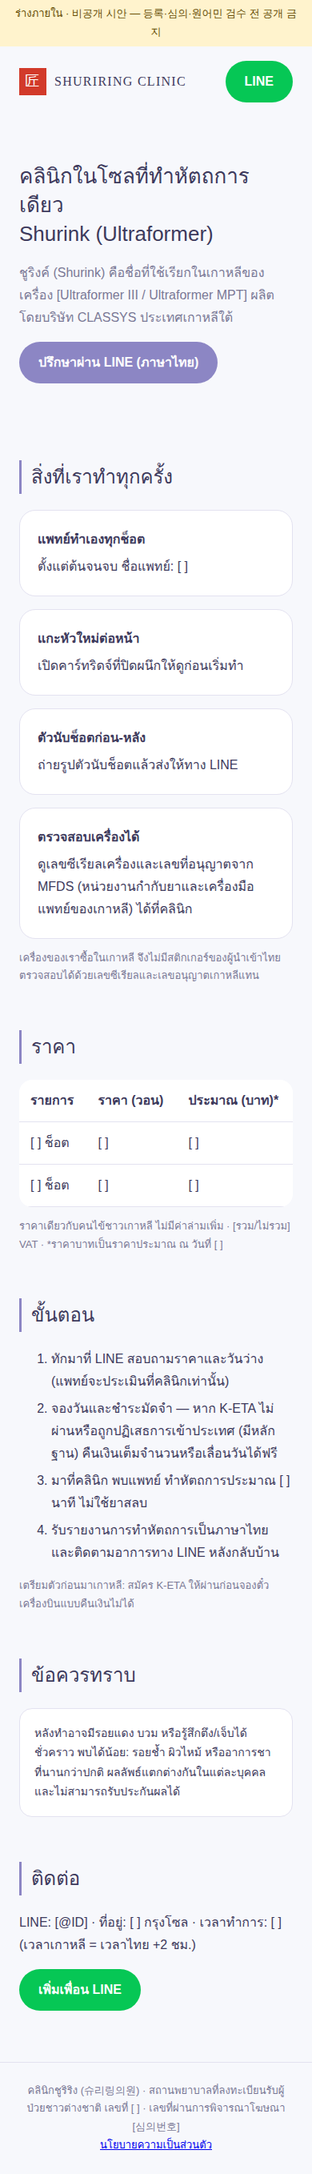
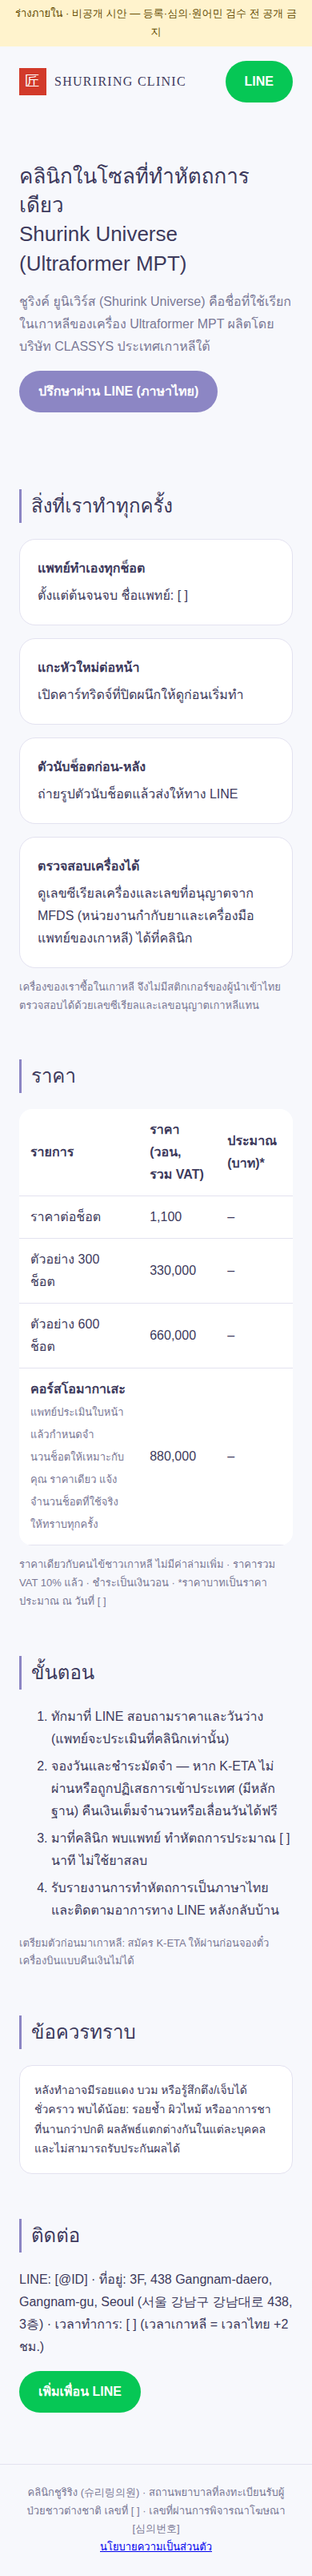
Fill action package with clinic details: Shurink Universe, GP, Gangnam, pricing
Claude-Session: https://claude.ai/code/session_01TBw4pbreaLteZs8koLRPUa

diff --git a/action/site-th/index.html b/action/site-th/index.html
@@ -45,9 +45,9 @@
 
 <main>
   <div class="hero">
-    <h1>คลินิกในโซลที่ทำหัตถการเดียว<br>Shurink (Ultraformer)</h1>
-    <!-- 슈링크 구형이면 Ultraformer III, 유니버스면 Ultraformer MPT로 확정 후 교체 -->
-    <p>ชูริงค์ (Shurink) คือชื่อที่ใช้เรียกในเกาหลีของเครื่อง [Ultraformer III / Ultraformer MPT] ผลิตโดยบริษัท CLASSYS ประเทศเกาหลีใต้</p>
+    <h1>คลินิกในโซลที่ทำหัตถการเดียว<br>Shurink Universe (Ultraformer MPT)</h1>
+    <!-- 기기: 슈링크 유니버스 = Ultraformer MPT. 동일성은 클래시스 서면 회신 후 최종 확정 -->
+    <p>ชูริงค์ ยูนิเวิร์ส (Shurink Universe) คือชื่อที่ใช้เรียกในเกาหลีของเครื่อง Ultraformer MPT ผลิตโดยบริษัท CLASSYS ประเทศเกาหลีใต้</p>
     <a class="btn" href="#contact">ปรึกษาผ่าน LINE (ภาษาไทย)</a>
   </div>
 
@@ -64,12 +64,15 @@
 
   <section>
     <h2>ราคา</h2>
-    <table>
-      <tr><th>รายการ</th><th>ราคา (วอน)</th><th>ประมาณ (บาท)*</th></tr>
-      <tr><td>[ ] ช็อต</td><td>[ ]</td><td>[ ]</td></tr>
-      <tr><td>[ ] ช็อต</td><td>[ ]</td><td>[ ]</td></tr>
+    <!-- 환율: data-rate(1바트=몇 원)와 data-date만 바꾸면 바트 칸 자동 계산. 한국은행 ECOS 기준으로 갱신 -->
+    <table id="price" data-rate="0" data-date="[ ]">
+      <tr><th>รายการ</th><th>ราคา (วอน, รวม VAT)</th><th>ประมาณ (บาท)*</th></tr>
+      <tr><td>ราคาต่อช็อต</td><td data-krw="1100">1,100</td><td class="thb">–</td></tr>
+      <tr><td>ตัวอย่าง 300 ช็อต</td><td data-krw="330000">330,000</td><td class="thb">–</td></tr>
+      <tr><td>ตัวอย่าง 600 ช็อต</td><td data-krw="660000">660,000</td><td class="thb">–</td></tr>
+      <tr><td><b>คอร์สโอมากาเสะ</b><br><span class="note">แพทย์ประเมินใบหน้าแล้วกำหนดจำนวนช็อตให้เหมาะกับคุณ ราคาเดียว แจ้งจำนวนช็อตที่ใช้จริงให้ทราบทุกครั้ง</span></td><td data-krw="880000">880,000</td><td class="thb">–</td></tr>
     </table>
-    <p class="note">ราคาเดียวกับคนไข้ชาวเกาหลี ไม่มีค่าล่ามเพิ่ม · [รวม/ไม่รวม] VAT · *ราคาบาทเป็นราคาประมาณ ณ วันที่ [ ]</p>
+    <p class="note">ราคาเดียวกับคนไข้ชาวเกาหลี ไม่มีค่าล่ามเพิ่ม · ราคารวม VAT 10% แล้ว · ชำระเป็นเงินวอน · *ราคาบาทเป็นราคาประมาณ ณ วันที่ <span id="rate-date"></span></p>
   </section>
 
   <section>
@@ -90,7 +93,7 @@
 
   <section id="contact">
     <h2>ติดต่อ</h2>
-    <p>LINE: [@ID] · ที่อยู่: [ ] กรุงโซล · เวลาทำการ: [ ] (เวลาเกาหลี = เวลาไทย +2 ชม.)</p>
+    <p>LINE: [@ID] · ที่อยู่: 3F, 438 Gangnam-daero, Gangnam-gu, Seoul (서울 강남구 강남대로 438, 3층) · เวลาทำการ: [ ] (เวลาเกาหลี = เวลาไทย +2 ชม.)</p>
     <a class="btn line" href="#">เพิ่มเพื่อน LINE</a>
   </section>
 </main>
@@ -99,5 +102,10 @@
   คลินิกชูริริง (슈리링의원) · สถานพยาบาลที่ลงทะเบียนรับผู้ป่วยชาวต่างชาติ เลขที่ [ ] · เลขที่ผ่านการพิจารณาโฆษณา [심의번호]<br>
   <a href="#">นโยบายความเป็นส่วนตัว</a>
 </footer>
+<script>
+  var t=document.getElementById('price'),r=+t.dataset.rate;
+  document.getElementById('rate-date').textContent=t.dataset.date;
+  if(r>0)t.querySelectorAll('tr').forEach(function(tr){var k=tr.querySelector('[data-krw]');if(k)tr.querySelector('.thb').textContent='≈ '+(Math.round(k.dataset.krw/r/10)*10).toLocaleString();});
+</script>
 </body>
 </html>

diff --git a/action/05-가격-포지셔닝-메모.md b/action/05-가격-포지셔닝-메모.md
@@ -1,0 +1,34 @@
+# 05. 가격·포지셔닝 메모 (슈링크 유니버스 · 일반의 · 강남대로 438)
+
+## 1. 태국 가격과 비교 (부가세 포함, 바트 환산은 41.5~47원/바트 범위 — ECOS로 확정 필요)
+
+| 구분 | 슈리링의원 (VAT 포함) | 바트 환산 | 태국 현지 (클리닉 홍보가, 리서치 [중간]) |
+|---|---|---|---|
+| 100샷 | 110,000원 | 약 2,340~2,650 | Ultraformer MPT 100샷 약 5,000바트 |
+| 300샷 | 330,000원 | 약 7,000~7,950 | (III 기준 약 8,000바트) |
+| 600샷 | 660,000원 | 약 14,000~15,900 | III 600샷 16,500~19,800바트 |
+| 오마카세 코스 | 880,000원 | 약 18,700~21,200 | MPT 얼굴+목 약 20,000~30,000바트 |
+
+→ **같은 MPT 기준으로 한국이 저렴하거나 비슷**합니다. 다만 광고에서 "태국보다 싸다"는 비교는 금지 — 가격표만 투명하게 보여 주면 태국인이 직접 계산합니다.
+
+## 2. '무제한 샷'은 태국 광고에 그대로 쓰지 마세요
+
+- 리서치 결과, 태국에서 **'무제한·초저가'는 가품·리필 카트리지 신호**로 읽힙니다. 증명 키트로 쌓을 신뢰와 정면으로 충돌합니다.
+- '무제한'이라는 표현 자체가 한국 의료광고 심의에서 과장·유인으로 문제될 수 있습니다 → **심의위원회 확인 필요**. 태국 금지 판촉어(ลด แลก แจก แถม 계열)와도 가깝습니다.
+- **추천 프레이밍: "슈링크 오마카세" = 의사가 얼굴을 보고 샷 수를 정하는 코스.** 방콕에서 '오마카세(โอมากาเสะ)'는 익숙한 말이고, '장인이 알아서 최적으로'라는 원툴 장인 콘셉트와 딱 맞습니다.
+  - 태국어: คอร์สโอมากาเสะ — แพทย์ประเมินใบหน้าแล้วกำหนดจำนวนช็อตให้เหมาะกับคุณ ราคาเดียว แจ้งจำนวนช็อตที่ใช้จริงให้ทราบทุกครั้ง
+  - (의사가 얼굴을 보고 샷 수를 정하는 코스, 한 가격, 실제 사용 샷 수를 매번 알려 드림)
+  - **실사용 샷 수를 카운터 사진으로 반드시 전달** → '무제한'의 불안을 '투명함'으로 바꿉니다.
+- 운영 전 클래시스에 1회 권장 최대 샷 수를 확인하세요(`03` 메일 6번 추가). 안전 상한을 내부 기준으로 정해 두는 게 좋습니다.
+
+## 3. 일반의라서 조심할 표현
+
+- 쓰면 안 됨: 피부과, 피부과 전문의, dermatologist, specialist, แพทย์ผิวหนัง, แพทย์เฉพาะทาง, ผู้เชี่ยวชาญ
+- 써도 되는 사실: "의사(แพทย์)", 의사 이름, 누적 시술 건수(증빙 가능할 때), "슈링크 유니버스 한 가지만 시술"
+
+## 4. 강남구 소재라서 쓸 수 있는 것
+
+- **강남구 의료관광 활성화 조례**(2025.9.26): 해외 홍보·마케팅 경비 지원, 협력기관 공모(지정 3년)
+- **강남메디컬투어센터**(압구정로 161): 등록 후 협력기관 신청·팸투어 문의
+- 2026-07-01 특구 외국어 광고 특례는 강남이 해당 특구가 아니므로 **계획에서 제외**
+- 도로명주소상 자치구가 강남구인지 한 번만 확인하세요(강남대로는 서초구와 경계).

diff --git a/action/01-등록신청-준비.md b/action/01-등록신청-준비.md
@@ -6,10 +6,9 @@
 
 ## A. 체크리스트
 
-- [ ] 기기 명판 사진(모델명·시리얼) 확보 → 슈링크(구형)인지 유니버스인지 확정
-- [ ] 원장 면허 구분 확인: 전문의 / 일반의
-  - 전문의(예: 피부과) → 해당 진료과목으로 신청
-  - 일반의 → `02-국민신문고-질의서.md` 1번 질의 회신 후 과목 결정 (**'피부과'로 적으면 요건 미충족**)
+- [x] 기기: **슈링크 유니버스** (해외명 Ultraformer MPT) — 명판 사진(모델명·시리얼)과 식약처 허가번호는 따로 확보
+- [x] 원장: **일반의** → **'피부과'로 신청하면 안 됩니다**(전문의 요건 미충족 → 거짓 신청 시 등록취소·형사처벌 위험)
+  - `02-국민신문고-질의서.md` 1번을 **오늘** 보내고, MEDICALKOREA 시스템에서 진료과목 선택지에 '일반의/비전문과목'이 있는지도 직접 확인
 - [ ] 의료사고배상책임보험 또는 의료배상공제 가입(의원급 **연간 배상한도 1억원 이상**), 가입증명서 발급
   - 보험사 2~3곳 견적 요청: "외국인환자 유치의료기관 등록용, 연 한도 1억 이상"
 - [ ] 사업운영계획서 작성(아래 B 초안)
@@ -23,13 +22,13 @@
 
 **1. 기관 개요**
 - 기관명: 슈리링의원 (Shuriring Clinic)
-- 소재지: [주소]
-- 대표자: [성명] / 면허: [의사면허번호] / 전문의 여부: [ ]
+- 소재지: 서울특별시 강남구 강남대로 438, 3층 (자치구는 도로명주소로 최종 확인)
+- 대표자: [성명] / 면허: [의사면허번호] / 전문의 여부: 일반의
 - 의료인력: 의사 [ ]명, 간호(조무)사 [ ]명, 외국어 가능 인력 [ ]명(언어: [ ])
-- 주요 장비: 고강도집속초음파(HIFU) — 클래시스 [슈링크/슈링크 유니버스], 식약처 허가번호 [ ]
+- 주요 장비: 고강도집속초음파(HIFU) — 클래시스 슈링크 유니버스, 식약처 허가번호 [ ]
 
 **2. 유치 대상 및 진료과목**
-- 유치 진료과목: [피부과 / 일반의 과목 — 질의 회신에 따름]
+- 유치 진료과목: 전문과목이 아닌 진료과목(일반의) — 서울시 질의 회신에 따른 명칭으로 기재
 - 주요 대상 국가: 태국(1순위), 기타 동남아
 - 주요 시술: 고강도집속초음파를 이용한 피부 리프팅(단일 시술 특화)
 
@@ -41,7 +40,7 @@
 **4. 외국인환자 서비스 체계**
 - 통역: 태국어 코디네이터 [상근/파트타임/통역업체]
 - 진료계약서·예상 진료비·환자 권리·분쟁해결절차: 영어·태국어 제공
-- 진료비: 내국인과 동일한 공개 가격(원화), 비급여 진료비 게시
+- 진료비: 내국인과 동일한 공개 가격(원화) — 1샷 1,000원, 의사 판단 코스 800,000원(각 부가세 별도), 비급여 진료비 게시
 - 사후관리: 귀국 후 LINE을 통한 경과 확인(일반 안내), 이상 시 대응 경로 안내
 
 **5. 환자 안전 및 분쟁 대응**

diff --git a/action/03-클래시스-질의메일.md b/action/03-클래시스-질의메일.md
@@ -6,11 +6,12 @@
 
 안녕하세요, [담당자님]. 슈리링의원 원장 [성명]입니다. 늘 도움 주셔서 감사합니다.
 
-저희 의원은 [슈링크 / 슈링크 유니버스] (시리얼 [ ])를 사용하고 있고, 외국인환자 유치의료기관 등록 후 태국에서 오는 환자분들께 정확한 정보를 드리려고 합니다. 태국에서는 이 제품이 'Ultraformer' 이름으로 알려져 있어 아래 사항을 서면으로 확인받고 싶습니다.
+저희 의원은 슈링크 유니버스(시리얼 [ ])를 사용하고 있고, 외국인환자 유치의료기관 등록 후 태국에서 오는 환자분들께 정확한 정보를 드리려고 합니다. 태국에서는 이 제품이 'Ultraformer' 이름으로 알려져 있어 아래 사항을 서면으로 확인받고 싶습니다.
 
-1. **제품 동일성**: 저희 기기(식약처 허가 모델명 [ ])가 해외 판매명 [Ultraformer III / Ultraformer MPT]와 같은 제품인지요? 카트리지 종류·깊이 사양도 같은지요?
-2. **명칭 사용**: 해외 환자 안내물·웹페이지·검색광고에 "슈링크는 Ultraformer III의 한국 이름입니다" 같은 **사실 설명** 목적으로 'Ultraformer' 명칭을 쓰는 것에 대해 귀사의 가이드라인이 있는지요? 로고·공식 이미지 사용은 허용되지 않는 것으로 이해하고 있으며, 사용하지 않겠습니다.
-3. **정품 확인**: 환자가 정품 카트리지·기기임을 확인할 수 있는 방법(정품 인증 앱, QR, 시리얼 조회 등)이 슈링크 카트리지에도 적용되는지, 해외 환자가 쓸 수 있는지요?
+1. **제품 동일성**: 저희 기기(식약처 허가 모델명 [ ])가 해외 판매명 Ultraformer MPT와 같은 제품인지요? 카트리지 종류·깊이 사양도 같은지요?
+2. **명칭 사용**: 해외 환자 안내물·웹페이지·검색광고에 "슈링크 유니버스는 Ultraformer MPT의 한국 이름입니다" 같은 **사실 설명** 목적으로 'Ultraformer' 명칭을 쓰는 것에 대해 귀사의 가이드라인이 있는지요? 로고·공식 이미지 사용은 허용되지 않는 것으로 이해하고 있으며, 사용하지 않겠습니다.
+3. **정품 확인**: 환자가 정품 카트리지·기기임을 확인할 수 있는 방법(정품 인증 앱, QR, 시리얼 조회 등)이 슈링크 유니버스 카트리지에도 적용되는지, 해외 환자가 쓸 수 있는지요?
+6. **샷 수 상한**: 1회 시술 시 권장 최대 샷 수나 부위별 권장 샷 수 가이드가 있는지요? (의사 판단 코스 운영과 환자 안내에 반영하려 합니다)
 4. **태국 유통사 관계**: 한국 의원이 태국 거주자에게 안내하는 것에 대해 태국 유통사와 관련해 유의할 점이 있는지요?
 5. **구매 계약**: 기기 구매·유지보수 계약에 해외 마케팅 관련 제한 조항이 있는지 확인 부탁드립니다.
 

diff --git a/action/README.md b/action/README.md
@@ -25,6 +25,7 @@
 | `02-국민신문고-질의서.md` | 보건복지부·서울시 질의 2건(일반의 등록 가능 여부, 태국 타겟 온라인 광고의 심의 대상 여부) | 복사해서 국민신문고 제출 |
 | `03-클래시스-질의메일.md` | 기기 동일성·상표 사용·정품 인증 서면 질의 | 영업 담당자에게 발송 |
 | `04-태국어-환자서류.md` | 제8조 게시물(환자 권리), 부작용·동의 안내, 개인정보 동의(PDPA/PIPA) 태국어+한국어 | **태국어 원어민 검수** 후 사용 |
+| `05-가격-포지셔닝-메모.md` | 태국 가격 비교, '무제한' → '오마카세' 재정의, 일반의 표현 주의, 강남구 지원 | 검토 |
 | `site-th/index.html` | 태국어 랜딩페이지 **비공개 시안**(noindex, 참고 사이트 톤) | 브라우저로 열어 확인만. 등록·심의 후 공개 |
 
 ## 3. 제가 할 수 없는 것 (원장님 몫)
@@ -33,8 +34,12 @@
 - 기기 명판 확인(슈링크 구형 = Ultraformer III / 유니버스 = MPT) → **결과를 알려주시면 모든 문구를 거기에 맞춰 고칩니다**
 - 태국어 최종 검수(제 태국어는 초안 수준입니다)
 
-## 4. 알려주시면 바로 이어서 할 것
+## 4. 반영 완료 (2026-09-25)
 
-1. 기기 모델, 원장 전문의 여부, 의원 주소(강남 여부), 원화 가격표 → 서류·랜딩 빈칸 전부 채우기
+슈링크 유니버스(=Ultraformer MPT) · 일반의 · 서울 강남대로 438 3층 · 1샷 1,000원 / 오마카세 800,000원(VAT 별도) → 01~05, 랜딩에 반영.
+남은 빈칸: 원장 성명·면허번호, 식약처 허가번호, 시술 시간, 진료시간, LINE ID, 환율(랜딩 `data-rate` 한 곳).
+
+## 5. 다음에 할 것
+
 2. 한국인 대상 슈링크 콘텐츠/광고 문구(의료법 기준 점검 포함)
 3. 등록 후 공개할 LINE OA 자동응답·리치메뉴 문구, 첫 콘텐츠 15편 대본

diff --git a/action/02-국민신문고-질의서.md b/action/02-국민신문고-질의서.md
@@ -9,7 +9,7 @@
 **제목:** 일반의 개설 의원의 외국인환자 유치의료기관 등록 시 진료과목 기재 방법 문의
 
 **내용:**
-안녕하십니까. 서울 [구]에서 의원을 운영하는 의사입니다. 외국인환자 유치의료기관 등록을 준비 중이어서 아래 사항을 질의드립니다.
+안녕하십니까. 서울 강남구(강남대로 438)에서 의원을 운영하는 의사입니다. 외국인환자 유치의료기관 등록을 준비 중이어서 아래 사항을 질의드립니다.
 
 1. 저희 의원은 전문의가 아닌 의사(일반의)가 개설했으며, 고강도집속초음파(HIFU)를 이용한 피부 리프팅 시술을 주로 합니다.
 2. 「의료 해외진출 및 외국인환자 유치 지원에 관한 법률」 제6조 제1항 제1호는 진료과목별 전문의 1명 이상을 요건으로 하되, 단서에서 전문과목이 아닌 진료과목은 예외로 두고 있는 것으로 이해합니다.

diff --git a/action/04-태국어-환자서류.md b/action/04-태국어-환자서류.md
@@ -24,7 +24,7 @@
 
 ## 4-2. 시술 설명·부작용 안내 (동의서 첨부용)
 
-**ข้อมูลก่อนทำหัตถการ: อัลตร้าฟอร์เมอร์ (Shurink / Ultraformer) | 시술 전 안내**
+**ข้อมูลก่อนทำหัตถการ: ชูริงค์ ยูนิเวิร์ส (Shurink Universe / Ultraformer MPT) | 시술 전 안내**
 
 | ภาษาไทย | 한국어 |
 |---|---|
